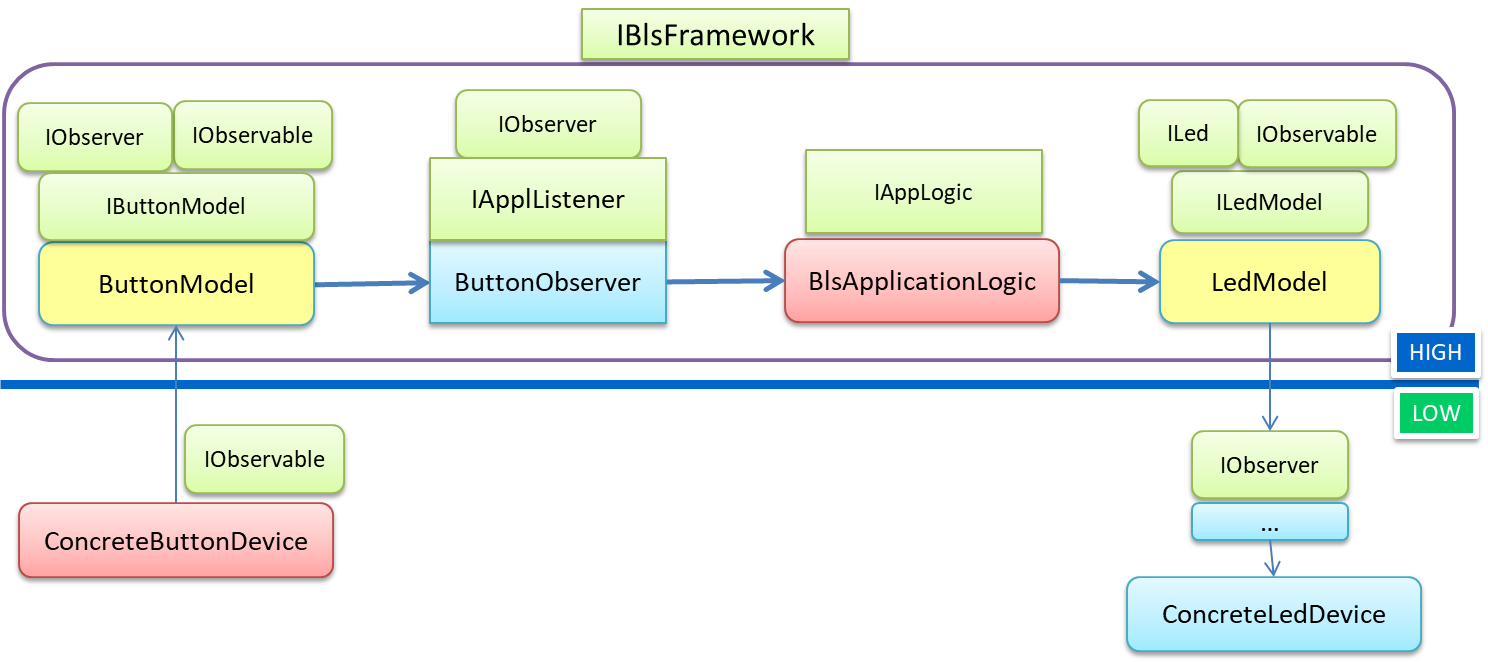
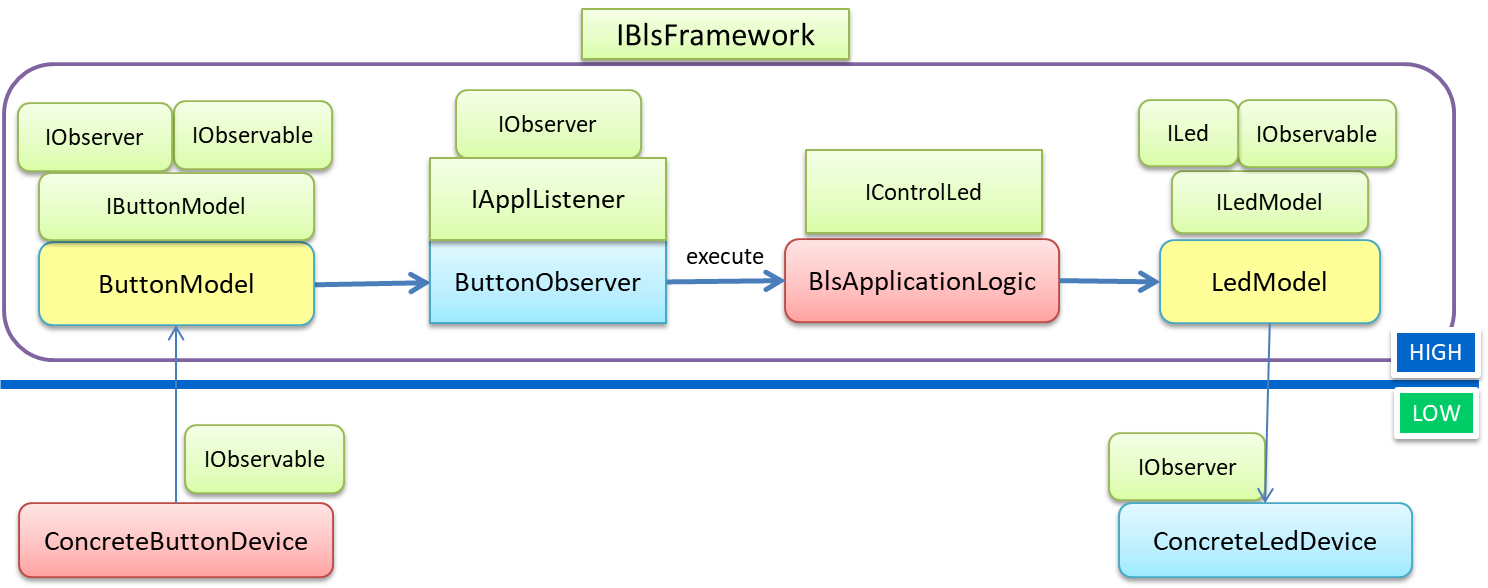
Week 3

diff --git a/it.unibo.bls19Local/userDocs/Lab3.html b/it.unibo.bls19Local/userDocs/Lab3.html
@@ -136,7 +136,7 @@ Refactoring the <tt>BLS</tt> system introduced in <a href="Lab1.html" target="in
 </div>	    
  	
 	
-<h2>A SYSTEM BASED ON MODELS</h2>
+<h2>TOWARD SYSTEM MODELLING</h2>
 <p>
 The architecture of the <tt>BLS</tt> system introduced in <a href="Lab1.html" target="info">Lab1.html</a>  and later extended in
 <a href="Lab2.html" target="info">Lab2.html</a>, includes components
@@ -145,15 +145,34 @@ that represent, concrete devices, for example a
  <a href="../src/main/java/it/unibo/bls/devices/gui/ButtonAsGui.java" target="code">ButtonAsGui</a>.
 <br/>
  To enhance flexibility and reusability, a <a href="../src/main/java/it/unibo/bls/devices/DeviceFactory.java" target="code">DeviceFactory</a>
- is introduced, that works with reference to a set of device types (
+ is introduced, that works with reference to a set of <em>device types</em> (
  <a href="../src/main/java/it/unibo/bls/devices/LedType.java" target="code">LedType</a> and
 	<a href="../src/main/java/it/unibo/bls/devices/ButtonType.java" target="code">ButtonType</a>).
 </p><p>
 Let us now replace any specific device with a <em>device model</em> (for a quick introduction on the role of models in software, you can see 
 <a href="https://en.wikipedia.org/wiki/Conceptual_model_(computer_science)" target="web">Conceptual model</a> and
-<a href="https://en.wikipedia.org/wiki/Systems_modeling" target="web">Systems modeling</a>) that captures the relevant properties of the device, without
-any reference to its technological aspects.
+<a href="https://en.wikipedia.org/wiki/Systems_modeling" target="web">Systems modeling</a>) with the aim of captureing 
+the relevant properties of the device (without any reference to its technological aspects).
 </p><p>
+
+<h3>Digital twins</h3>
+In the context of the  <a href="https://en.wikipedia.org/wiki/Internet_of_things">Internet of things</a>, we can read  that a
+<a href="https://en.wikipedia.org/wiki/Digital_twin">digital twin</a> is:
+
+<ul>
+<li>a dynamic virtual representation of a physical object or system across its lifecycle, 
+using real-time data to enable understanding, learning and reasoning;</li>
+<li>a real time digital replica of a physical device;</li>
+<li>a digital replica of a living or non-living physical entity. By bridging the physical and the virtual world, 
+data is transmitted seamlessly allowing the virtual entity to exist simultaneously with the physical entity</li>
+<li>...</li>
+</ul>
+
+The introduction of the concept of <em>digital twin</em> is going to 'disruptt' the entire <em>Product Lifecycle Management</em> (<tt>PLM</tt>), 
+from manufacturing to service and operations.
+Digital twins offer a great amount of business potential by predicting the future instead of analyzing the past of the manufacturing process.
+
+<h2>MODELLING THE DEVICES</h2>
 Our definition of a model for the <tt>Led</tt> and for the <tt>Button</tt> is at the moment quite simple, since it is limited to capture
 the idea of a components with a <bc>state</bc>, represented as a <tt>boolean</tt> variable.
 </p><p>
@@ -190,12 +209,14 @@ is also defined as an <em>observer</em>.
 
 <ul>
 <li>The  model  of any <bc>input/sensor</bc> device (like a <tt>Button</tt>) should evolve according to information that arises from some
-concrete device, i.e. it should be an <em>Observer</em>.</li>
-<li>The model of any <bc>output/actuator</bc>  device (like a <tt>Led</tt>) should send information (when it changes)
- to some concrete device without being obliged to know such a device in static way, i.e. it should be an <em>Observable</em>.</li>
+concrete device, i.e. it should be an <em>Observer</em>. Moreover, it should be also an <em>Observable</em> in order to propagate
+information about changes, by avoiding the need of polling on it.</li>
+<li>The model of any <bc>output/actuator</bc>  device (like a <tt>Led</tt>) should be an <em>Observable</em>,
+since it should send information (when it changes)
+ to some concrete device without being obliged to know such a device in static way.</li>
  <li>A <b>system</b> based on proper set of models can be designed, build and tested <em>once and for all</em>. Concrete devices can be
  added (also in a dynamic way) as <i>observers</i> (if output devices) or as <i>observable</i> (if input devices). In other
- words, we can build a reusable software <a href="https://en.wikipedia.org/wiki/Software_framework">framework</a>.</li>
+ words, we can design and build a reusable software <a href="https://en.wikipedia.org/wiki/Software_framework">framework</a>.</li>
  <li>An <b>application built upon the framework</b> can be logically conceived as a software system composed of two main parts: 
  a <em>logical, high-level</em> part (the framework) that does not change and a <em>technology-dependent, lower-level</em>  part 
  that provides concrete components  to be 'injected' into the logical part.</li>
@@ -244,16 +265,27 @@ with little change, since it must make reference to a
  </ul>
  
  <h2>The Application Logic</h2> 
-The  application logic built-in in the framework is implemented by a component 
-(<a href="../src/main/kotlin/it/unibo/blsFramework/kotlin/applLogic/BlsApplicationLogic.kt" target="code">BlsApplicationLogic.kt</a>)
-that works as a proactive/reactive entity:
+ 
+ In this work, rather than simply reusing our previous <tt>Java</tt> version of the component that implements the application logic,
+ we will introduce a version based on <tt>Kotlin</tt>
+ (<a href="../src/main/kotlin/it/unibo/blsFramework/kotlin/applLogic/BlsApplicationLogic.kt" target="code">BlsApplicationLogic.kt</a>), 
+ by starting from the given requirement that it must work as a <em>proactive/reactive</em> entity:
 
 <ul>
 <li><em>reactive</em>: the application logic is always able to run the operation <bc>execute</bc>, since this operation is 
-the method of a conventional object (the method code runs in the context of a caller Thread); </li>
-<li><em>proactive</em>: the application logic is able to perform the 'blinking task' within a <em>Kotlin Actor</em> 
-(for an introduction to the concept of actor in Kotlin, see <a href="https://github.com/Kotlin/kotlinx.coroutines/blob/master/docs/shared-mutable-state-and-concurrency.md#actors" target="web">
-Kotlin corotines: Shared mutable state and concurrency</a>) defined as follows:
+the method of a conventional object (the method code runs in the context of a caller<tt>Thread</tt>); </li>
+<li><em>proactive</em>: the application logic is able to perform the 'blinking task' in autonomous way, until
+the <tt>Button</tt> is pressed again.
+
+</li>
+</ul>
+
+As done in <a href="../src/main/java/it/unibo/blsFramework/applLogic/BlsApplicationLogic.java" target="code">BlsApplicationLogic.java</a>,
+the <a href="../src/main/kotlin/it/unibo/blsFramework/kotlin/applLogic/BlsApplicationLogic.kt" target="code">BlsApplicationLogic.kt</a>)
+is a conventional <tt>Java</tt> class that exposes the method  <bc>execute</bc>.
+
+<h4>The proactive part</h4>
+The difference consists in implementing the 'proactive' part as a <em>Kotlin Actor</em> defined as follows:
 
 
 <pre>
@@ -267,24 +299,41 @@ Kotlin corotines: Shared mutable state and concurrency</a>) defined as follows:
                 if ( led!!.getState() ) led!!.turnOff() else led!!.turnOn()
                 Utils.delay(250)
             }
-            //println("   ACTOR actorBlink  | doBlinkTheLed ENDS ...")
-        }
+         }
     }
 </pre> 
  
 The actor blinks the <tt>Led</tt> while the boolean variable <bc>doBlink</bc> is true. Otherwise it checks for a new message from its
 input channel; if no message is present, the actor waits (more precisely, it <em>suspends</em>, since it is a coroutine) without consuming
-<tt>CPU</tt> time. The variable <bc>doBlink</bc> is changed by the method <bc>applLogic</bc> (called by the method <bc>execute</bc>)
-that sends also a message to the actor, in order to resume its activity.
- 
+<tt>CPU</tt> time.
 
-</li>
-</ul>
+<h4>The reactive part</h4>
+The variable <bc>doBlink</bc> is changed by the method <bc>applLogic</bc> (called by the method <bc>execute</bc>)
+that sends also a message to the actor, in order to resume its activity.
+
+<pre>
+   open  fun applLogic( ){  //open : can be overridden
+        numCalls++
+        doBlink = numCalls % 2 != 0     //if false actorBlink ends its loop
+        println("	BlsFrameworkApplicationLogicKt | execute numCalls=$numCalls doBlink=$doBlink")
+        if( doBlink )
+        GlobalScope.launch {
+            actorBlink.send("work") //REACTIVATES the actor
+        }
+    }
+</pre> 
 
  <h3>(KOTLIN) ACTORS</h3> 
-The <a href="https://github.com/Kotlin/kotlinx.coroutines/blob/master/docs/shared-mutable-state-and-concurrency.md#actors" target="web">Kotlin actor</a>
+For an introduction to the concept of actor in Kotlin, see 
+<a href="https://github.com/Kotlin/kotlinx.coroutines/blob/master/docs/shared-mutable-state-and-concurrency.md#actors" target="web">
+Kotlin corotines: Shared mutable state and concurrency</a>.  Here we read that
+ 
+"<a href="https://github.com/Kotlin/kotlinx.coroutines/blob/master/docs/shared-mutable-state-and-concurrency.md#actors" target="web">Kotlin actor</a>
 is a coroutine builder  <i>'that conveniently combines actor's mailbox channel into its scope to receive messages from and 
-combines the send channel into the resulting job object'</i>. From now on, we will represent such a new computational entity with the
+combines the send channel into the resulting job object'</i>." 
+
+
+From now on, we will represent such a new computational entity with the
 following picture:
 
  <center><img src="./actor.png" alt="actor" width="10%" height="10%"></center>
@@ -319,10 +368,6 @@ in our previous <a href="Lab2.html" target="info">Lab2.html</a>.
 <li><em>CHANGE</em>: set up <a href="../src/main/kotlin/it/unibo/blsFramework/kotlin/applLogic/AnotherApplLogic.kt" target="code">AnotherApplLogic.kt</a></li>
 </ol>
  
-
- 
- 
-
 <pre>
 public static void main(String[] args) {
 		IBlsFramework blSystem = MainBlsFramework.createTheSystem("BLS-blink");
@@ -333,10 +378,9 @@ public static void main(String[] args) {
 	//ADD:        CHANGE THE SYSTEM DYNAMICALLY BY ADDING AN ARDUINO LED / BUTTON
         blSystem.addConcreteLed(LedProxyArduino.create(
 			DeviceConfig.serialPortNum, DeviceConfig.serialBaudrate));
-	       blSystem.addConcreteButton( new ButtonProxyArduino(
+	    blSystem.addConcreteButton( new ButtonProxyArduino(
 			DeviceConfig.serialPortNum, DeviceConfig.serialBaudrate));
 		Utils.delay(10000);
-
 	//CHANGE:    THE SYSTEM DYNAMICALLY BY ADDING AN ARDUINO LED
  		Utils.delay(5000);
 		System.out.println(" ============ CHANGE CONTROL =============== ");

diff --git a/it.unibo.bls19Local/userDocs/Lab2.html b/it.unibo.bls19Local/userDocs/Lab2.html
@@ -126,14 +126,16 @@ div.req{
 <h2>REQUIREMENTS</h2>
 <div class="req">
 Extend the <tt>BLS</tt> system <a href="Lab1.html" target="info">Lab1.html</a> (built with reference to <tt>Mock</tt> and <tt>GUI</tt> devices),
- by introducing a <tt>Physical Led</tt> and a <tt>Physical Button</tt> controlled by Arduino.
+ by introducing a <tt>Physical Led</tt> and a <tt>Physical Button</tt> controlled by the  <a href="https://en.wikipedia.org/wiki/Arduino">Arduino</a>
+microcontroller.
 </div>	    
  	
 	
 <h2>STARTING POINT</h2>
 
  
-A local solution for the <tt>BLS</tt> system running on <tt>Arduino</tt> can be easily found  on the network. There are technical,
+A local solution for the <tt>BLS</tt> system running on <a href="https://en.wikipedia.org/wiki/Arduino">Arduino</a> can be easily found  on the network. 
+There are technical,
 technology-dependent problems to face (e.g. interact with a very fast micro-controller, avoid signal bouncing, etc.) but
 a possible solution can be: <a href="../src/arduino/bls2019LocalOnArduino/bls2019LocalOnArduino.ino" target="code">bls2019LocalOnArduino.ino</a>.
 
@@ -153,7 +155,19 @@ At the moment, since we have to start from the system introduced in <a href="Lab
 it is useful to build a <em>model</em>
 of that system, to recall its properties from three different points of view:  <i>structure, interaction and behavior</i>.
 
-<h4>A logic architecture</h4>
+<h2>MODELS in SOFTWARE</h2>
+In <a href="https://www.sebokwiki.org/wiki/System_Modeling_Concepts"></a> we read that
+"perhaps the most fundamental concept in systems modeling is <em>abstraction</em>, 
+which concerns hiding unimportant details in order to <b>focus on essential characteristics</b>". 
+<p>
+It is useful to have a common way to talk about the concepts underlying the many different types of models 
+(e.g., many modeling techniques enable the understanding of <em>system behavior</em>, while others enable the understanding of 
+<em>system structure</em>). In our approach a relevant aspect is related to <em>interaction</em>, since
+we are moving from the traditional interaction based on procedure-calls among system components towards interaction based on 
+<a href="https://en.wikipedia.org/wiki/Message_passing">message-passing</a>.
+</p>
+
+<h3>A logic architecture for the BLS</h3>
 As already, proposed in <a href="Lab1.html" target="info">Lab1.html</a>, the following <tt>UML</tt> interaction diagram 
 can give us a summary of our model of the current software system:
 <center><img src="./bls0.png" alt="bls0" width="60%" height="60%"></center>

diff --git a/LectureBologna1819.html b/LectureBologna1819.html
@@ -75,13 +75,17 @@ e ai suo <a href="entry.html#Goals" target="lecture">obiettivi</a>.
 
     <tr><td>5/3/2019 (15-17)</td><td>Lab2</td> 
 <td>La transizione da dispositivi Mock a dispositivi virtuali e fisici controllati da Arduino.
+Richiami sul concetto e sul ruolo dei modelli nella progettazione e costruzione del software.
+Interazione PC-Arduino su linea seriale: il problema della struttura dei messaggi.
    Si veda <a href="http://htmlpreview.github.com/?https://github.com/anatali/iss2019Lab/blob/master/it.unibo.bls19Local/userDocs/Lab2.html" target="lecture">Lab2.html</a>.
-</td>  
+
+   </td>  
 </tr>
   
   
 <tr><td>7/3/2019 (15-18)</td><td>Lab2</td> 
-<td>
+<td>Progetto e realizzazione di un framework per applicazioni ButtonLed.
+Si veda <a href="http://htmlpreview.github.com/?https://github.com/anatali/iss2019Lab/blob/master/it.unibo.bls19Local/userDocs/Lab3.html" target="lecture">Lab3.html</a>
 </td>  
 </tr>
 
